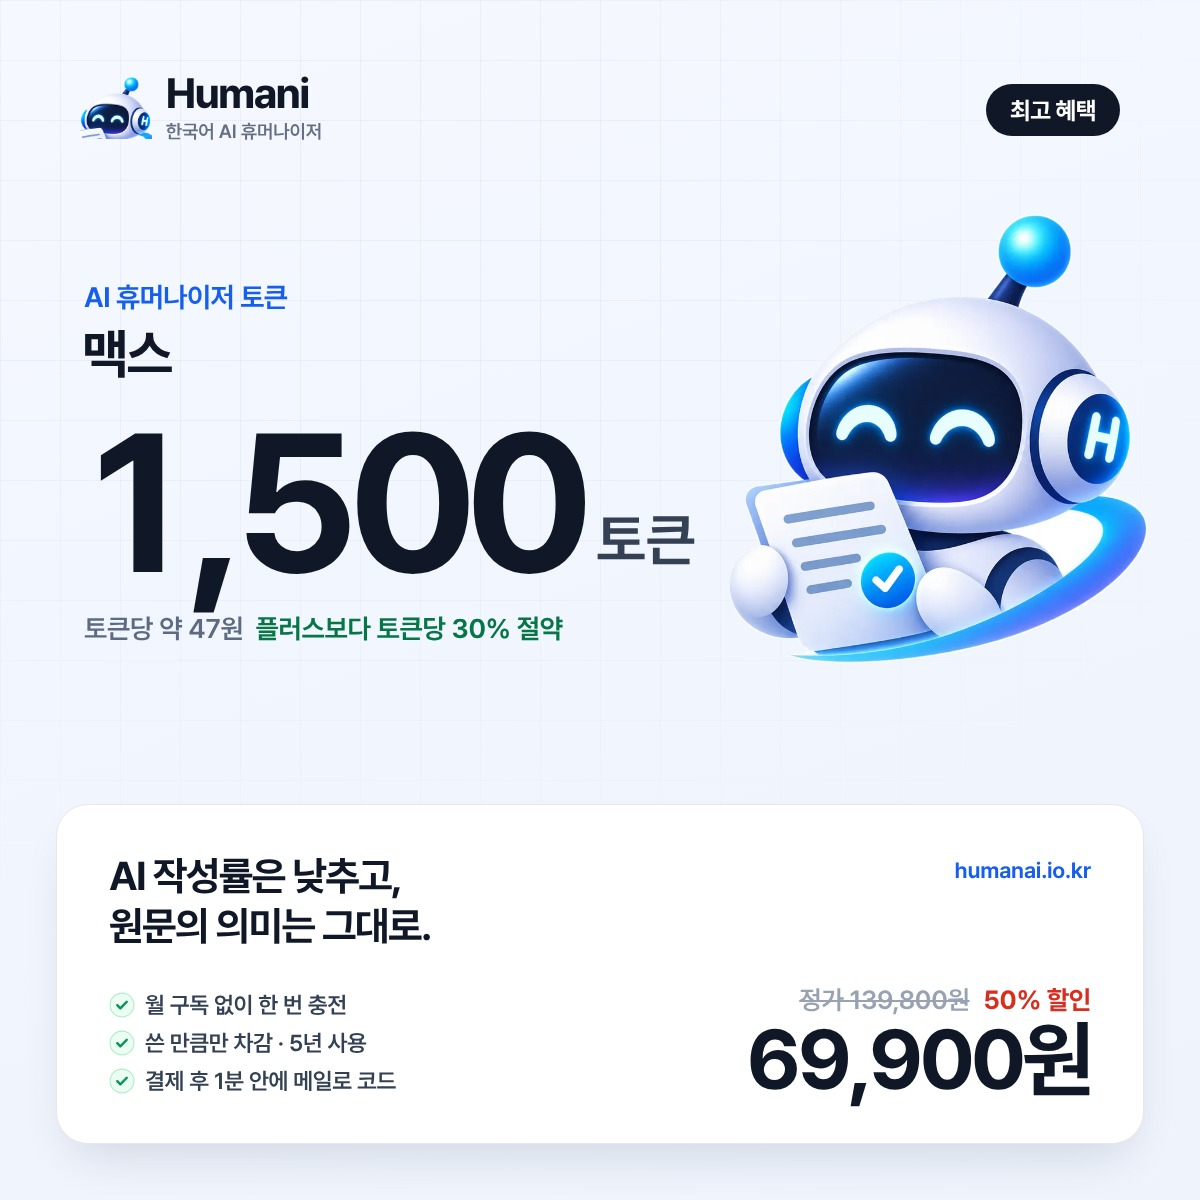
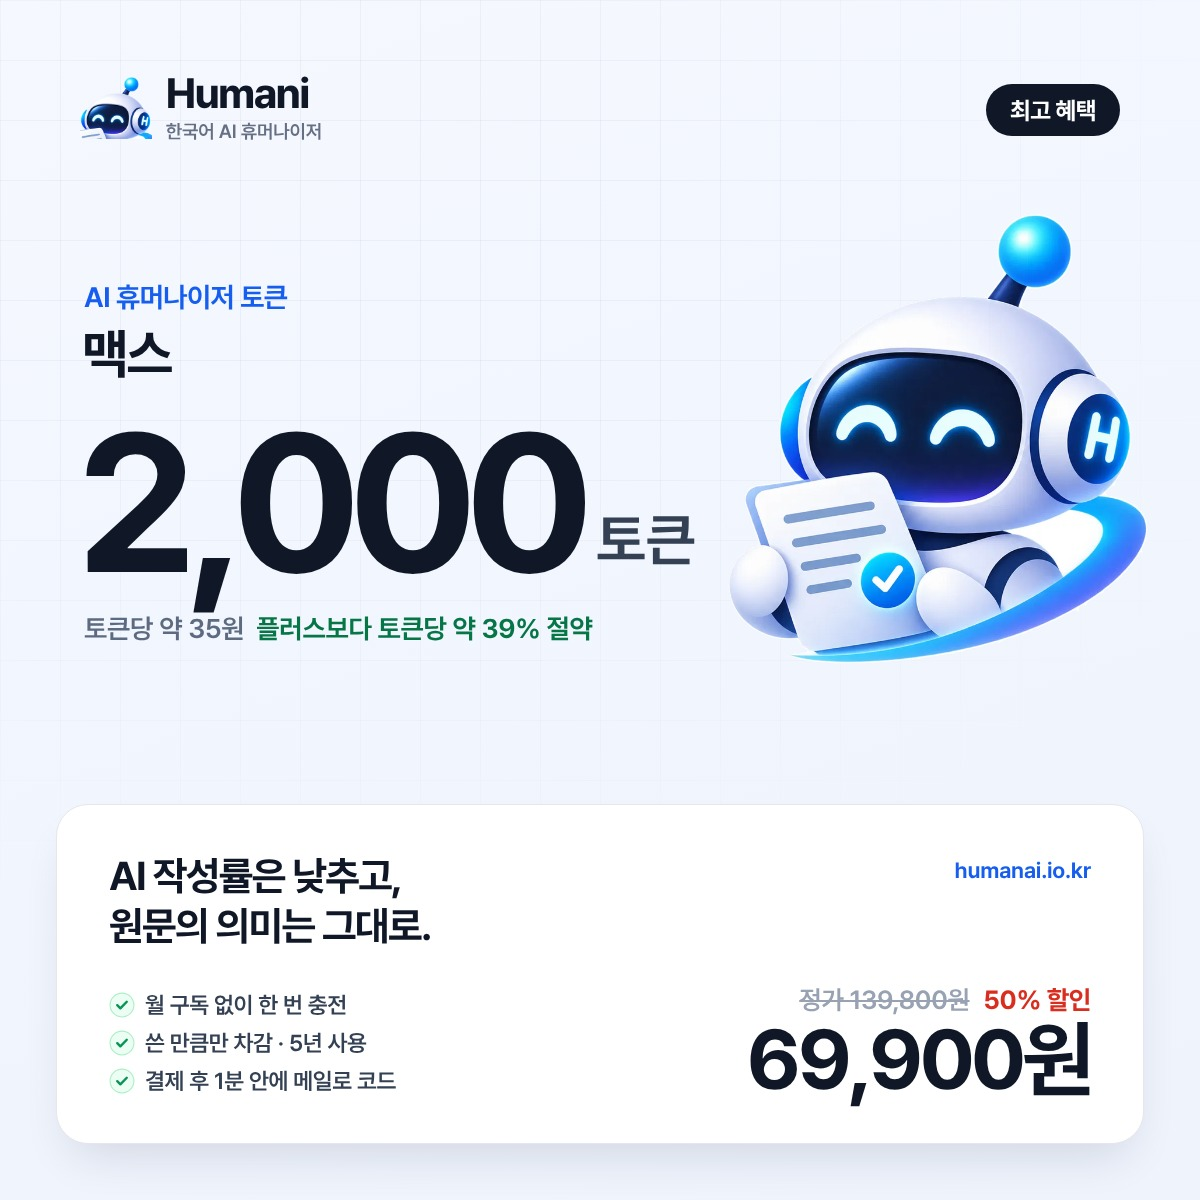
사이트 업데이트

diff --git a/_src/shop/render.py b/_src/shop/render.py
@@ -25,8 +25,8 @@ DEMO_CAP = "실측 · %s 한 번 휴머나이징" % T.get("label", "논문")
 PACKS = [
     {"id": "lt", "name": "라이트", "tok": "100", "price": "9,900원", "list": "19,800원", "per": "토큰당 99원", "save": "", "badge": "", "fit": "짧은 과제 · 자기소개서 한두 문항"},
     {"id": "pl", "name": "플러스", "tok": "350", "price": "19,900원", "list": "39,800원", "per": "토큰당 약 57원", "save": "", "badge": "", "fit": "레포트 여러 편 · 자소서 한 세트"},
-    {"id": "pr", "name": "프로", "tok": "1,000", "price": "39,900원", "list": "79,800원", "per": "토큰당 약 40원", "save": "플러스보다 토큰당 20% 절약", "badge": "BEST 추천", "fit": "학기 과제 전체 · 논문 한 장(章)"},
-    {"id": "mx", "name": "맥스", "tok": "2,000", "price": "69,900원", "list": "139,800원", "per": "토큰당 약 35원", "save": "플러스보다 토큰당 30% 절약", "badge": "최고 혜택", "fit": "학위논문 전체 · 팀 · 여러 명"},
+    {"id": "pr", "name": "프로", "tok": "1,000", "price": "39,900원", "list": "79,800원", "per": "토큰당 약 40원", "save": "플러스보다 토큰당 약 30% 절약", "badge": "BEST 추천", "fit": "학기 과제 전체 · 논문 한 장(章)"},
+    {"id": "mx", "name": "맥스", "tok": "2,000", "price": "69,900원", "list": "139,800원", "per": "토큰당 약 35원", "save": "플러스보다 토큰당 약 39% 절약", "badge": "최고 혜택", "fit": "학위논문 전체 · 팀 · 여러 명"},
 ]
 
 
